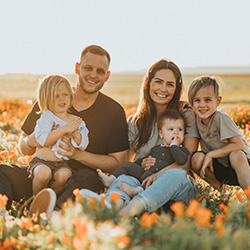
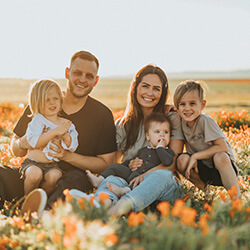
Optimise and compress images on home page

diff --git a/assets/css/style.css b/assets/css/style.css
@@ -131,6 +131,7 @@ footer {
 #footer-icons img {
     width: 100%;
     max-width: 50px;
+    height:auto;
 }
 
 #footer-icons img:hover {
@@ -153,7 +154,7 @@ footer {
 }
 
 #hero-image {
-    background: url('../images/hero-image-home-page.jpg') no-repeat center top;
+    background: url('../images/hero-image.jpg') no-repeat center top;
     background-size: cover;
     height: 600px;
     width: 100%;
@@ -212,7 +213,7 @@ footer {
 }
 
 #about-me-image {
-    background: url('../images/about-me-image.jpg') no-repeat center center;
+    background: url('../images/about-me-photo.jpg') no-repeat center center;
     height: 300px;
     width: 300px;
     border-radius: 50%;

diff --git a/packages.html b/packages.html
@@ -68,8 +68,8 @@
         <div class="package-container">
             <h2>Communions</h2>
             <div class="package-options">
-                <img src="assets/images/gallery-images/gallery-image-35.jpg"
-                    alt="Photo of a Father lifting his toddler child in the air, while the mother sits on the ground in a meadow">
+                <img src="assets/images/communion-image.jpg"
+                    alt="Photo of girl in her communion dress kneeling and praying against a window sill">
             </div>
             <div class="package-options">
                 <h3>Communion Photoshoot From &#X20AC; 200</h3>
